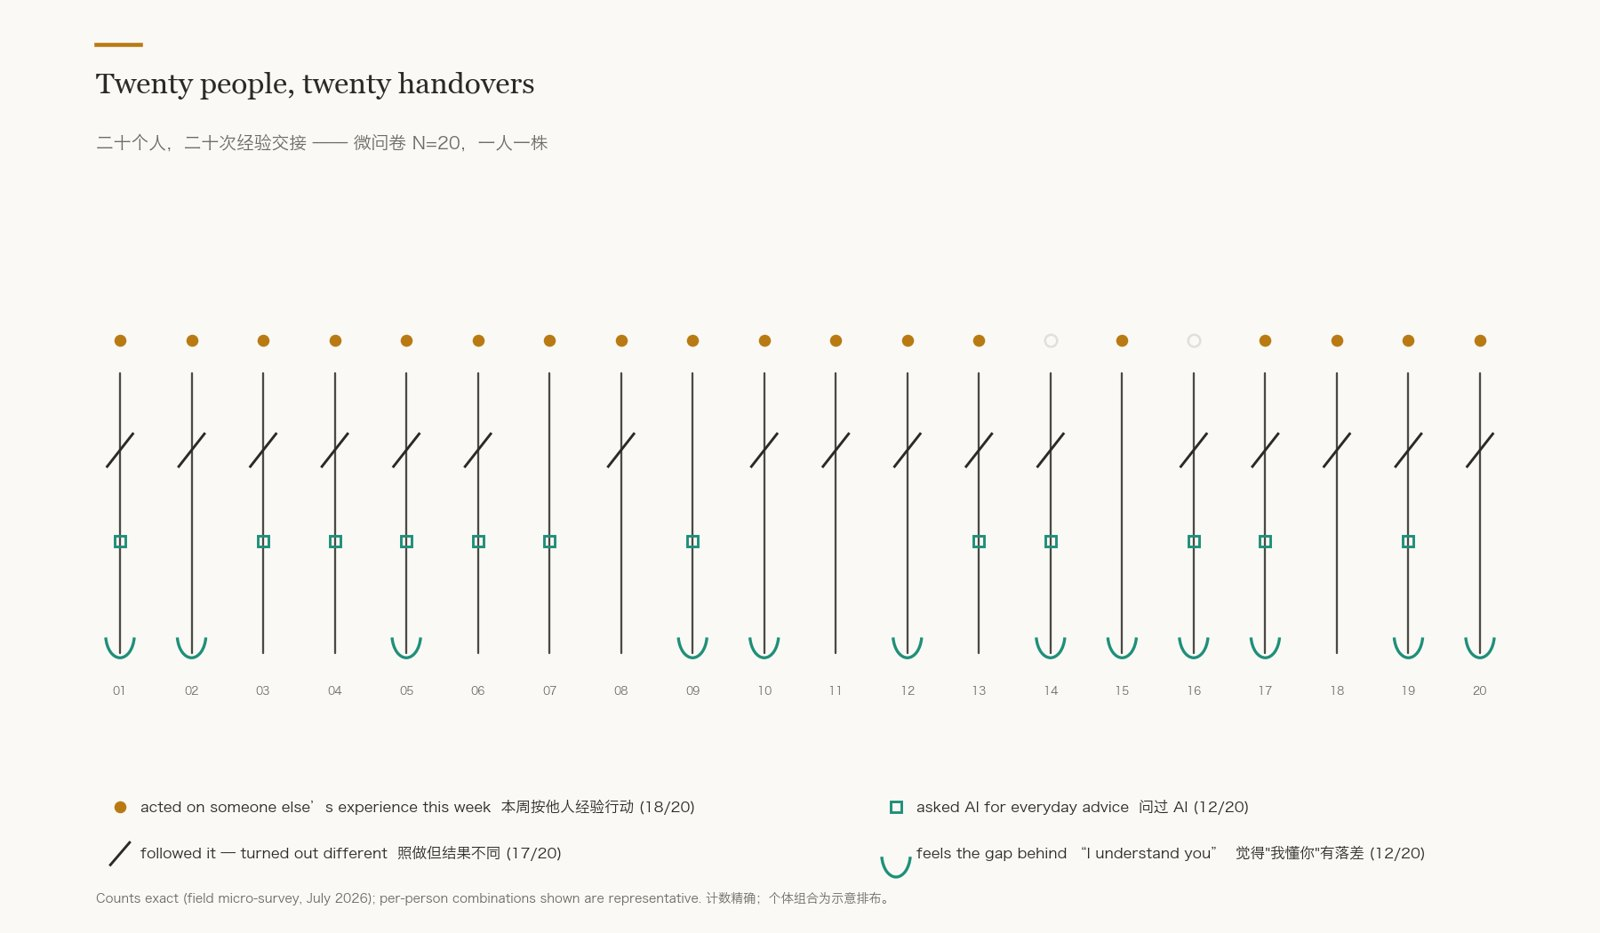
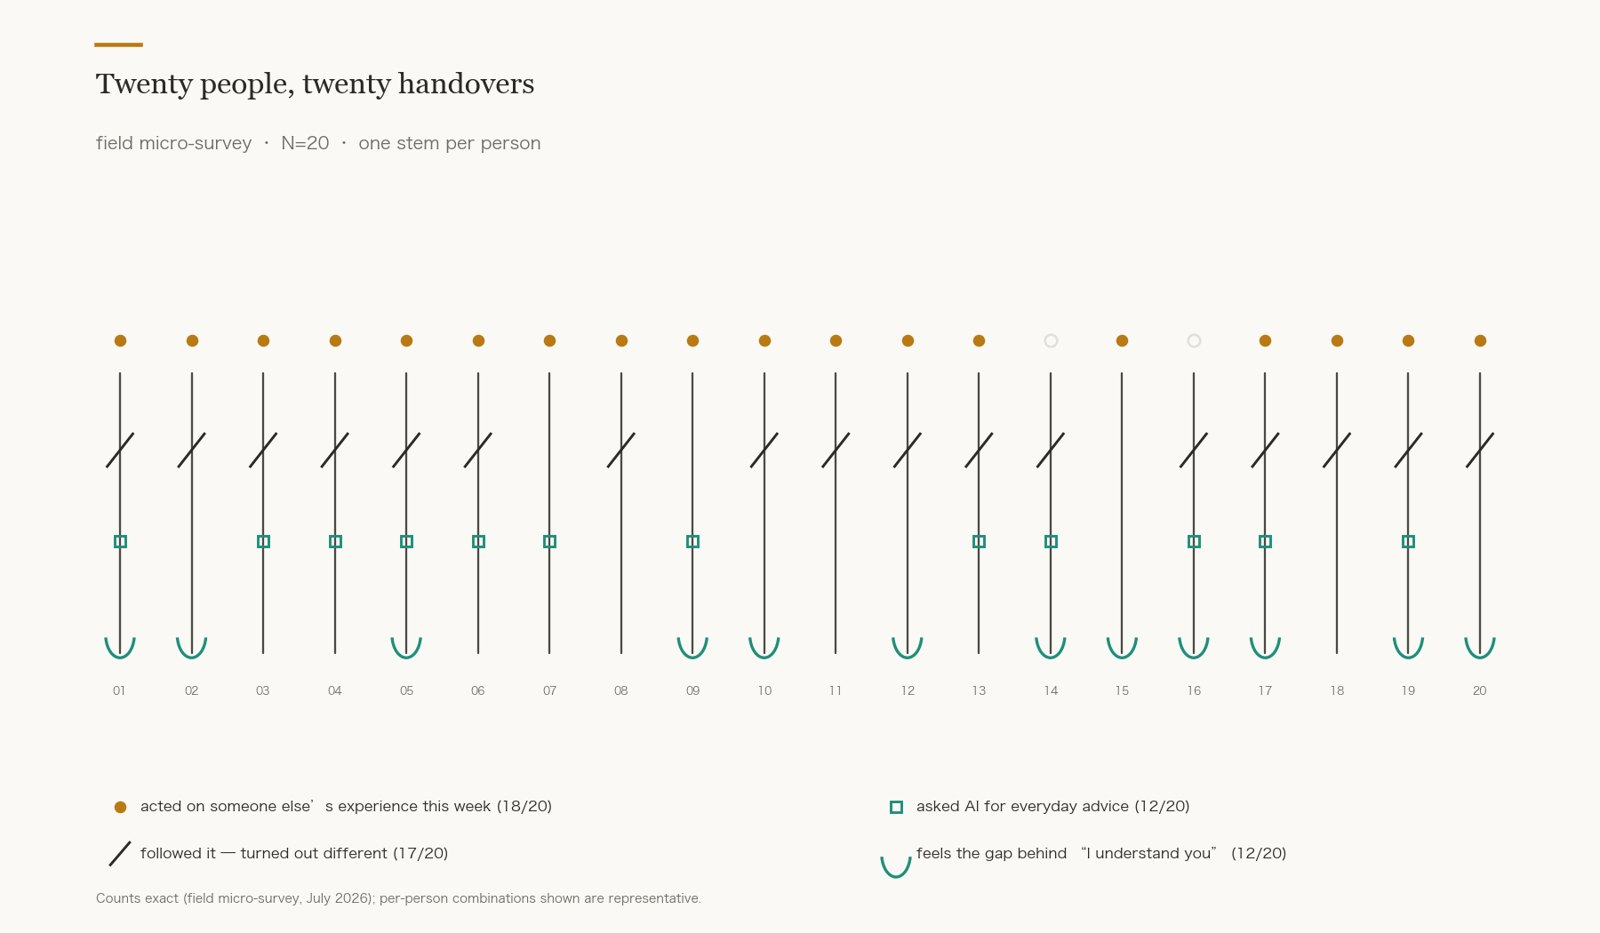
case: all-English page; research viz labels English-only

diff --git a/case/index.html b/case/index.html
@@ -4,7 +4,7 @@
 <meta charset="utf-8">
 <meta name="viewport" content="width=device-width, initial-scale=1">
 <title>THE WORLD IS YOURS — Case Study</title>
-<meta name="description" content="Case study: THE WORLD IS YOURS / 世界是你的 — eleven films and eight voices on how understanding is negotiated when experience cannot be directly shared.">
+<meta name="description" content="Case study: THE WORLD IS YOURS — eleven films and eight voices on how understanding is negotiated when experience cannot be directly shared.">
 <style>
 *{margin:0;padding:0;box-sizing:border-box}
 :root{
@@ -113,7 +113,6 @@ footer .fine{font-size:11.5px;letter-spacing:.1em;margin-top:5em;line-height:2}
 <header id="hero">
   <div class="braille">⠠⠞⠓⠑⠀⠺⠕⠗⠇⠙⠀⠊⠎⠀⠽⠕⠥⠗⠎</div>
   <h1>THE WORLD IS YOURS</h1>
-  <div class="zh">世界是你的</div>
   <div class="braille">⠱⠆⠛⠑⠱⠆⠝⠊⠙⠢</div>
   <p class="sub">eleven films and eight voices on how understanding is negotiated<br>when experience cannot be directly shared</p>
   <div class="meta">
@@ -127,7 +126,7 @@ footer .fine{font-size:11.5px;letter-spacing:.1em;margin-top:5em;line-height:2}
 <section class="dark" id="work">
   <div class="wrap">
     <div class="eyebrow">01 · The Work</div>
-    <h2>Eleven films grown from spoken worlds <span class="cn">十一段影像</span></h2>
+    <h2>Eleven films grown from spoken worlds</h2>
     <p class="lead">We asked blind and low-vision friends to describe their worlds, then translated those descriptions into moving images. In the room the films are the size of a hand; here, they play at your size.</p>
     <div class="feature">
       <video controls playsinline preload="metadata" poster="img/film01.jpg" src="../assets/video/film01.mp4"></video>
@@ -148,14 +147,14 @@ footer .fine{font-size:11.5px;letter-spacing:.1em;margin-top:5em;line-height:2}
       <div class="vid"><video controls playsinline preload="none" poster="img/film10.jpg" src="../assets/video/film10.mp4"></video><em>10 · TWO CATS</em><div class="r">Neither explains orange to the other. Some company precedes understanding.</div></div>
       <div class="vid"><video controls playsinline preload="none" poster="img/film11.jpg" src="../assets/video/film11.mp4"></video><em>11 · DAYTIME THROUGH PAPER</em><div class="r">Light seen through paper. He said: this is my daytime. We placed the camera inside the paper, too.</div></div>
     </div>
-    <p class="note">The captions are the translators' second readings — not quotations. Some films combine the descriptions of several storytellers. 影像旁文字为转译者再读，非讲述者原话。</p>
+    <p class="note">The captions are the translators' second readings — not quotations. Some films combine the descriptions of several storytellers.</p>
 
     <div class="voices" id="voices">
-      <h2 style="font-size:clamp(20px,2.6vw,26px)">Eight voices, one sentence <span class="cn">八个声道</span></h2>
+      <h2 style="font-size:clamp(20px,2.6vw,26px)">Eight voices, one sentence</h2>
       <p class="lead" style="font-size:16px">Eight channels fill the dark from eight corners; they never pair with the screens. To see, you walk to an image; to listen, you stand where the channels balance. Every voice ends on the sentence this work is named after.</p>
       <div class="chs" aria-hidden="true"><i></i><i></i><i></i><i></i><i></i><i></i><i></i><i></i></div>
       <audio controls preload="none" src="../assets/audio/eight_channels.mp3"></audio>
-      <p class="note">Combined stereo reference, 11'09". In the room they play as eight independent sources. The sound layer is complete in itself: for blind and low-vision visitors it is the entire work. 八声道集合参考版；声音层本身即完整作品。</p>
+      <p class="note">Combined stereo reference, 11'09". In the room they play as eight independent sources. The sound layer is complete in itself: for blind and low-vision visitors it is the entire work.</p>
       <figure style="margin-top:3em"><img class="frame" src="img/install.jpg" alt="Installation views: small screens scattered in a dark hall; a corner neon of fractured glyphs; a white floor neon reading THE WORLD IS YOURS.">
       <figcaption>Installation views, 2024 — small screens in a blackout hall; fractured-glyph neon; the sentence as a white neon resting on the floor.</figcaption></figure>
     </div>
@@ -164,7 +163,7 @@ footer .fine{font-size:11.5px;letter-spacing:.1em;margin-top:5em;line-height:2}
 
 <section class="wrap rviz" id="research">
   <div class="eyebrow">02 · Research</div>
-  <h2>Everyone lives on second-hand experience —<br>and the handover always leaks <span class="cn">调研</span></h2>
+  <h2>Everyone lives on second-hand experience —<br>and the handover always leaks</h2>
   <p class="body">Field research (short interviews N=15 · bilingual micro-survey N=23, July 2026) drawn one person at a time, beside representative surveys and controlled experiments that find the same condition.</p>
   <figure><img class="frame" src="img/r1_twenty_people.jpg" alt="Glyph chart: twenty stems, one per survey respondent. Amber dots mark 18 of 20 who acted on someone else's experience this week; slashes mark 17 whose borrowed experience turned out different; teal squares mark 12 who asked AI for advice; teal arcs mark 12 who feel the gap behind 'I understand you'."></figure>
   <figure><img class="frame" src="img/r2_hundred_sentences.jpg" alt="Unit chart of one hundred utterances: 61 heard as meant, 11 believed through but actually lost — drawn falling out of the grid, 28 not even claimed. After Keysar and Henly 2002."></figure>
@@ -190,19 +189,19 @@ footer .fine{font-size:11.5px;letter-spacing:.1em;margin-top:5em;line-height:2}
       <div class="src"><a href="https://www.who.int/publications-detail-redirect/world-report-on-vision">WHO, 2019</a> · <a href="https://www.bemyeyes.com/news/be-my-eyes-reaches-1-million-blind-and-low-vision-users-and-10-million-volunteers/">Be My Eyes, 2026</a></div></div></div>
   </div>
   <div class="pull">"Sweet like sugar — but the small part that isn't sugar is usually the part that matters."
-    <small>P13 · the good-enough theory of understanding, from the field 蜂蜜的甜与蔗糖的甜</small></div>
-  <p class="note">Field data is a small qualitative sample; the surveys and experiments are representative or controlled. Shown side by side, never interchanged. 自采为小样本定性指示；两层并置，不互相冒充。</p>
+    <small>P13 · the good-enough theory of understanding, from the field</small></div>
+  <p class="note">Field data is a small qualitative sample; the surveys and experiments are representative or controlled. Shown side by side, never interchanged.</p>
 </section>
 
 <section class="wrap" id="exhibition" style="border-top:1px solid var(--line)">
   <div class="eyebrow">03 · Appendix — Taking It to a Room</div>
-  <h2 style="font-size:clamp(20px,2.6vw,26px)">Four halls, one light script <span class="cn">展览设计（附）</span></h2>
+  <h2 style="font-size:clamp(20px,2.6vw,26px)">Four halls, one light script</h2>
   <p class="body">A proposed staging at Warehouse XI: a dim buffer, a blackout star field of fifteen hand-height screens, a low-lit echo hall with a braille sentence wall and a card taken in the dark, a bright lounge where the card is finally read.</p>
   <div class="script">
-    <div class="s1"><b>1 · BUFFER</b>dim 微光</div>
-    <div class="s2"><b>2 · STAR FIELD</b>blackout 全黑</div>
-    <div class="s3"><b>3 · ECHO</b>low 昏暗</div>
-    <div class="s4"><b>4 · LOUNGE</b>bright 明亮</div>
+    <div class="s1"><b>1 · BUFFER</b>dim</div>
+    <div class="s2"><b>2 · STAR FIELD</b>blackout</div>
+    <div class="s3"><b>3 · ECHO</b>low</div>
+    <div class="s4"><b>4 · LOUNGE</b>bright</div>
   </div>
   <div class="grid2">
     <figure><img class="frame" src="img/plan_light.jpg" alt="Exhibition floor plan."><figcaption>Floor plan — geometry from the author's CAD.</figcaption></figure>
@@ -213,13 +212,13 @@ footer .fine{font-size:11.5px;letter-spacing:.1em;margin-top:5em;line-height:2}
     <figure><img class="frame" src="img/render_echo.jpg" alt="Echo hall render."><figcaption>Hall 3 · Echo</figcaption></figure>
     <figure><img class="frame" src="img/render_lounge.jpg" alt="Lounge render."><figcaption>Hall 4 · Lounge</figcaption></figure>
   </div>
-  <p class="note">Renders are digital visualizations from the layout data — not photographs. 效果图为布展数据渲染，非照片。</p>
+  <p class="note">Renders are digital visualizations from the layout data — not photographs.</p>
   <p class="body" style="margin-top:2em">Online exhibition → <a href="https://wis-coral.vercel.app/">wis-coral.vercel.app</a> · source: <a href="https://github.com/acrux-yueyao/wis">github.com/acrux-yueyao/wis</a></p>
 </section>
 
 <footer>
   <div class="braille">⠠⠞⠓⠑⠀⠺⠕⠗⠇⠙⠀⠊⠎⠀⠽⠕⠥⠗⠎</div>
-  <div class="line">The world is yours. 世界是你的。</div>
+  <div class="line">The world is yours.</div>
   <div class="braille">⠱⠆⠛⠑⠱⠆⠝⠊⠙⠢</div>
   <p style="font-family:var(--serif);font-style:italic;max-width:34em;margin:2.5em auto 0;font-size:14px">It may be a gift, a trust handed over, or the version least likely to be misunderstood. We cannot tell which — and the work refuses to decide.</p>
   <div class="fine">Multi-screen digital video · 8-channel sound installation<br>